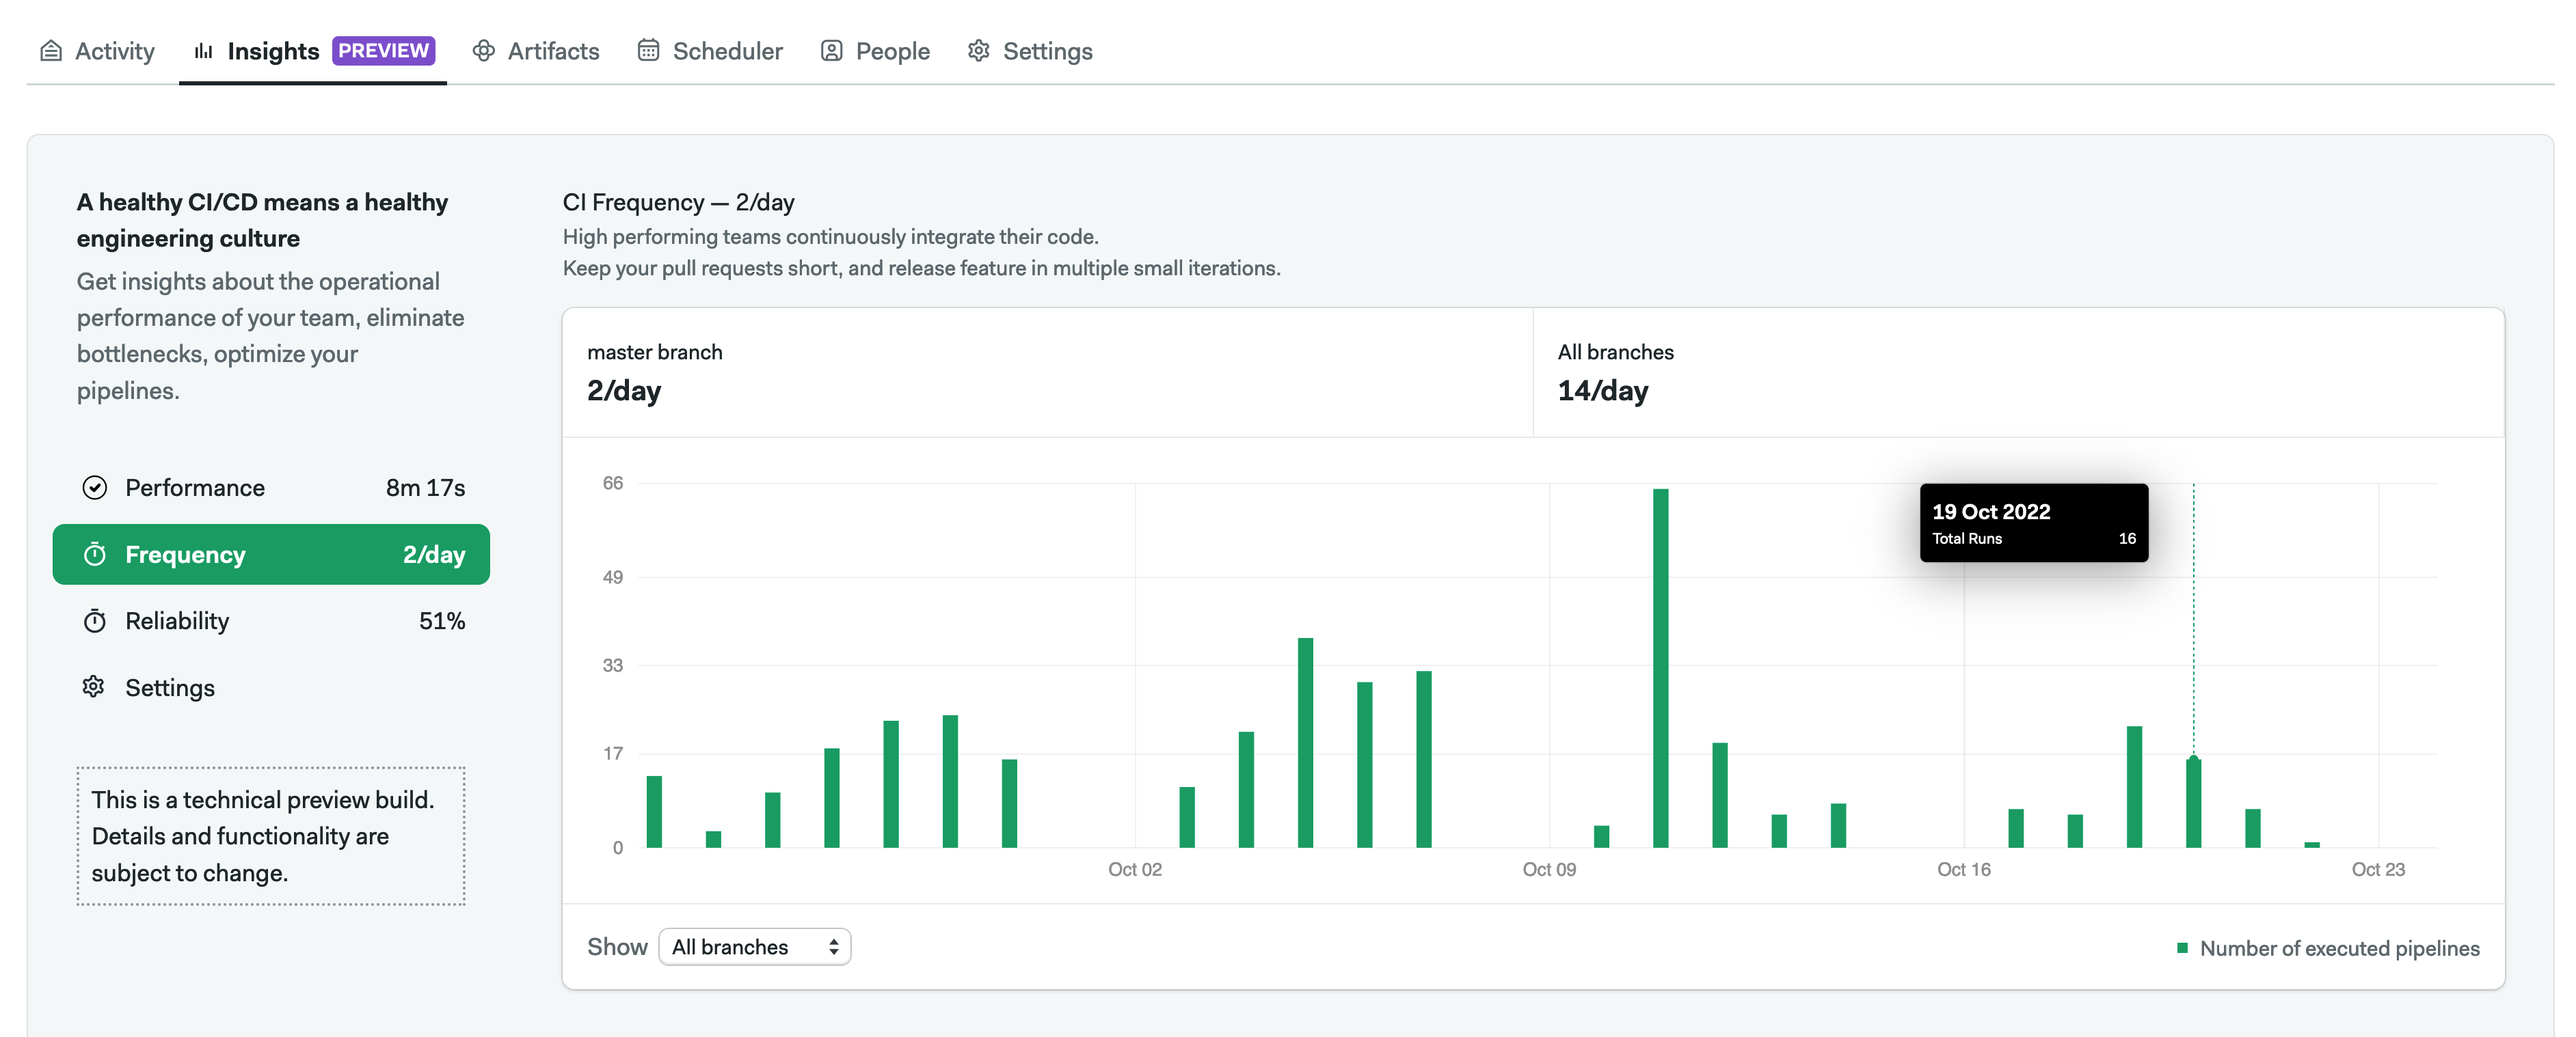
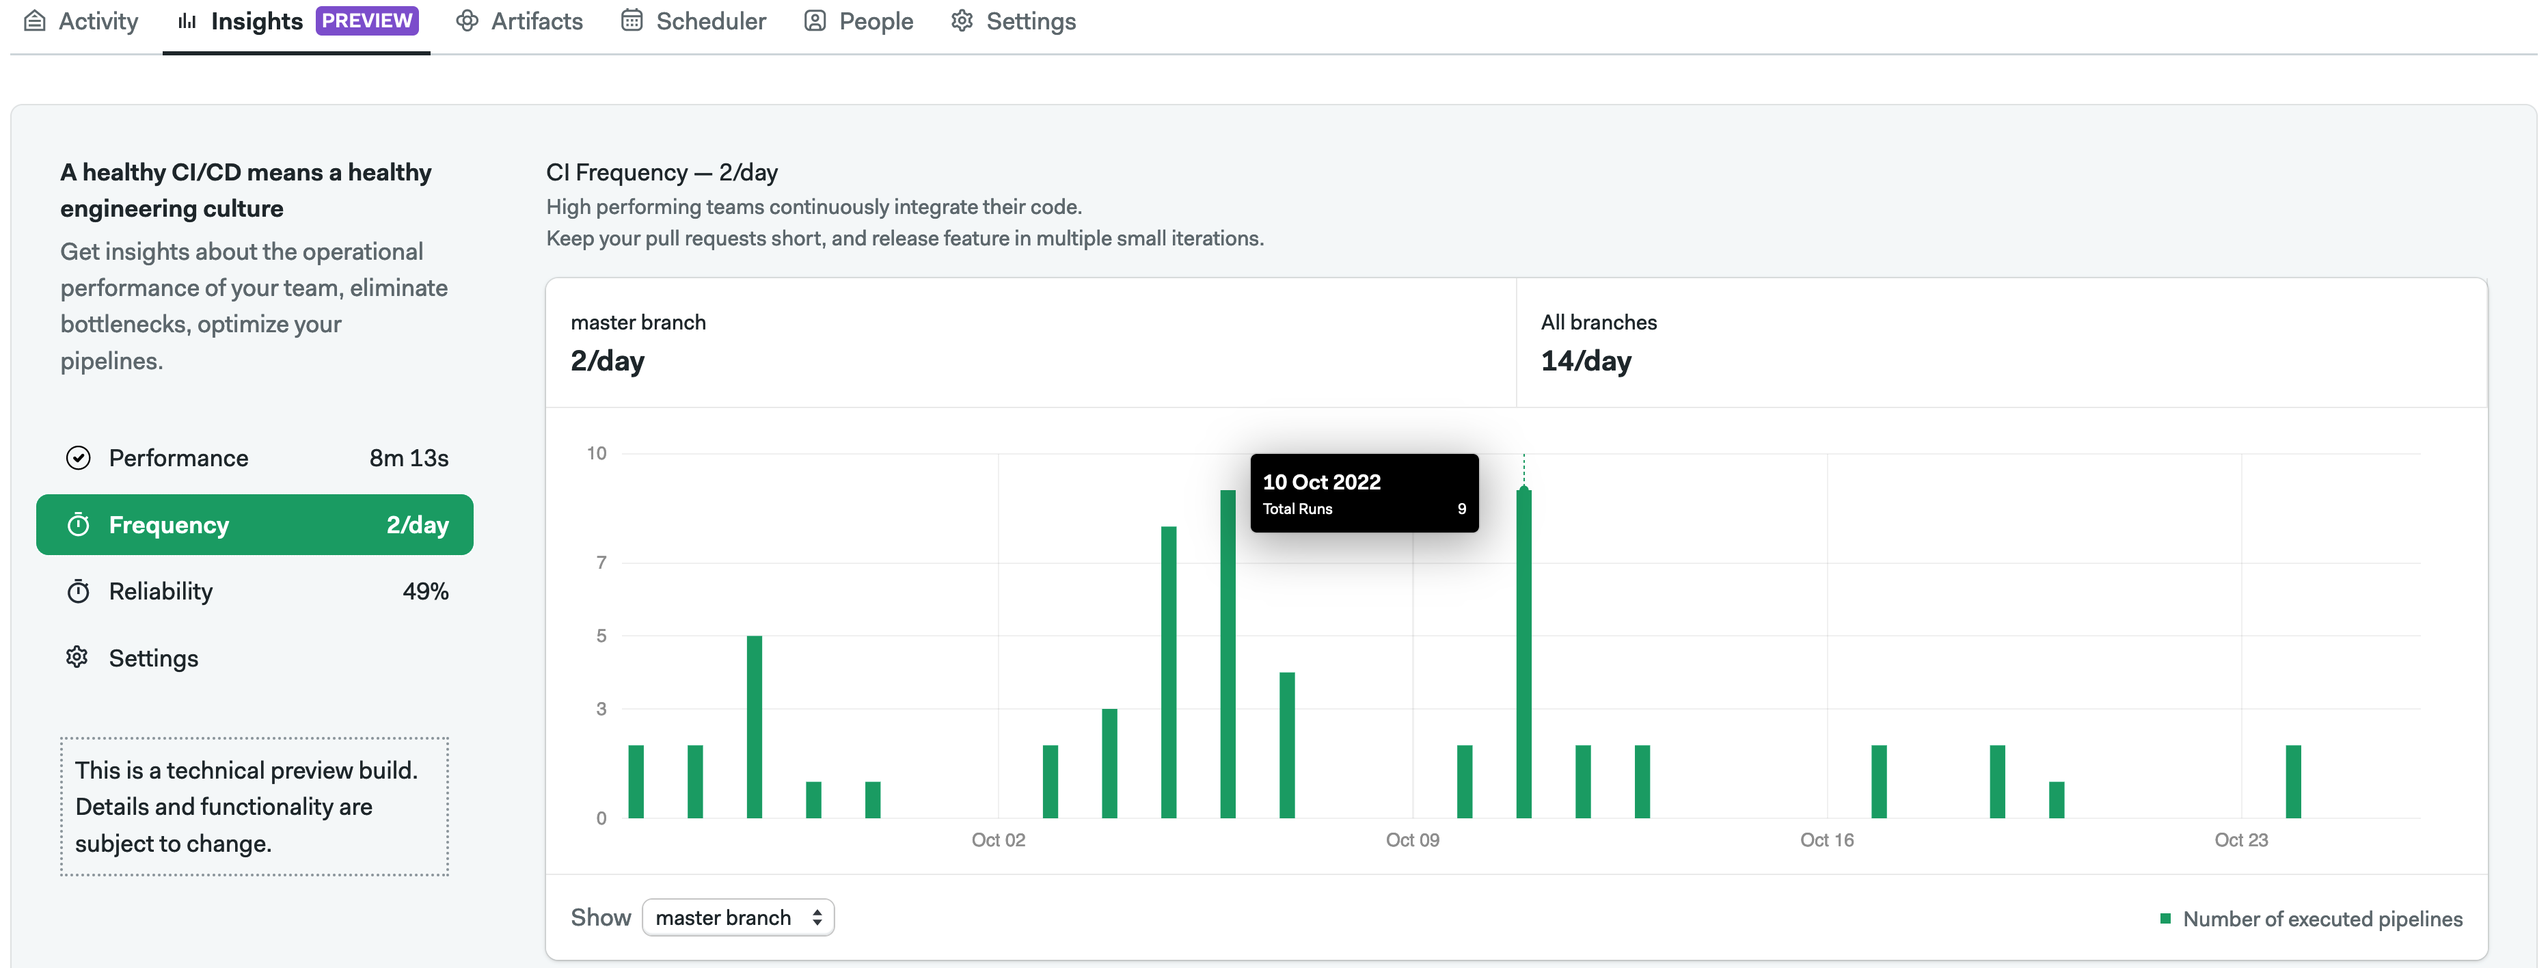
docs(project insights): Updated UI screenshots, removed more info

diff --git a/docs/score/project-insights.md b/docs/score/project-insights.md
@@ -5,31 +5,20 @@ Description: Project Insights are a set of metrics that provide a granular view 
 Project Insights provide metrics about your projects' development performance, speed, and reliability. For example, you can
 see the percentage of passed tests for the last few days in the whole project or your main branch.
 
-You can also set up Insights for your project's deployment branch via Settings on the Project Insights page.
+You can also set up insights for your project's deployment branch via Settings on the Project Insights page.
 
-!!! warning "This feature is still in Technical preview"
-    Project Insights is still in Technical Preview. Details and functionality are subject to change.
+!!! warning "This feature is in Technical preview."
+    Project Insights is in Technical Preview. Details and functionality are subject to change.
 
-
-## Default behavior
-
-By default, Project Insights are enabled for all projects, metrics are held for 30 days and are updated every 24 hours.
-
-### No Data
-If you just set up your project or there are no build runs for the last 30 days, you will see the following message:
- _"Unfortunately, there are no insights available for this project yet."_
-
-<img style="box-shadow: 0 0 5px #ccc" src="/score/img/empty.png" alt="Performance metrics - Empty">
 
 
 ## Configuring Insights
 
-Semaphore automatically collects metrics for your project without needing to set up anything. However, you need to
-set up Insights for your deployment branch.
+Semaphore tracks your CI insights automatically. You only need to set up insights for CD. 
 
-### Setting up Continuous Deployment Insights
+### Setting up Continuous Deployment insights
 
-Follow the steps below to set up CD Insights:
+Follow the steps below to set up CD insights:
 
 1. Click the **Insights** tab on the project page.
 2. Click the **Settings** button on the left side navigation bar of the Insights page.
@@ -40,19 +29,19 @@ Follow the steps below to set up CD Insights:
 
 
 <img style="box-shadow: 0 0 5px #ccc" src="/score/img/settings.png" alt="Project Insights - Settings page">
-After changes are saved, Semaphore will start collecting metrics for your deployment branch.
+After you save changes, Semaphore will start collecting metrics for your deployment branch.
 
 
 ## Metrics
-Semaphore breaks down the metrics by Performance, Frequency, and Reliability. You can switch between them from the panel
+Semaphore breaks down the metrics by Performance, Frequency, and Reliability. You can switch between metrics from the panel
 on the left.
 
 On the dashboard, you can see the summary of how long the pipelines need to run on average (Performance), how frequently
-the builds run (Frequency), and how stable the code is (Reliability).
+your team runs a pipeline (Frequency), and how stable your code is (Reliability).
 
 ### Performance
 Performance metrics provide an overview of the median time (p50) and the standard deviation (std.dev) that it takes the 
-pipelines to run. You can see the data for a selected branch (main or master) and all branches combined.
+pipelines to run. In addition, you can see the data for a selected branch (main or master) and all branches combined.
 
 <img style="box-shadow: 0 0 5px #ccc" src="/score/img/perf.png" alt="Performance metrics">
 
@@ -68,7 +57,7 @@ A tooltip with the total number of runs appears when you hover over the chart on
 
 <img style="box-shadow: 0 0 5px #ccc" src="/score/img/ci_freq.png" alt="Performance frequency">
 
-You can see the data from the deployment branch if you have CD Insights set up.
+You can see the data from the deployment branch if you have CD insights set up.
 
 <img style="box-shadow: 0 0 5px #ccc" src="/score/img/cd_freq.png" alt="Performance frequency - CD">
 
@@ -77,19 +66,16 @@ You can see the data from the deployment branch if you have CD Insights set up.
 Reliability metrics provide an overview of your project's pipeline run pass rate. You can also see the 
 mean time it takes to recover from a failed pipeline run and when was the last successful run.
 
-When you hover over a day on the chart, a tooltip with the Pass Rate, Number of Builds and Passed builds appears.
+When you hover over a day on the chart, a tooltip gets displayed with the Pass Rate, Number of Builds, and Passed builds.
 
 <img style="box-shadow: 0 0 5px #ccc" src="/score/img/ci_rel.png" alt="Performance reliability">
 
-You can see the data from the deployment branch if you have CD Insights set up.
+You can see the data from the deployment branch if you have CD insights set up.
 
 <img style="box-shadow: 0 0 5px #ccc" src="/score/img/cd_rel.png" alt="Performance reliability - CD">
 
 
-#### More information
+## Default data retention
 
-You can read more about about Project Insights in the 
-[Project Insights Announcement](https://semaphoreci.com/blog/project-insights).
-
-If you'd like to know more about what DORA is, you can read our [Dora Metrics](https://semaphoreci.com/blog/dora-metrics) 
-article.
+By default, Semaphore enables Project Insights for all projects. 
+Metrics are held for 30 days and are updated every 24 hours.
